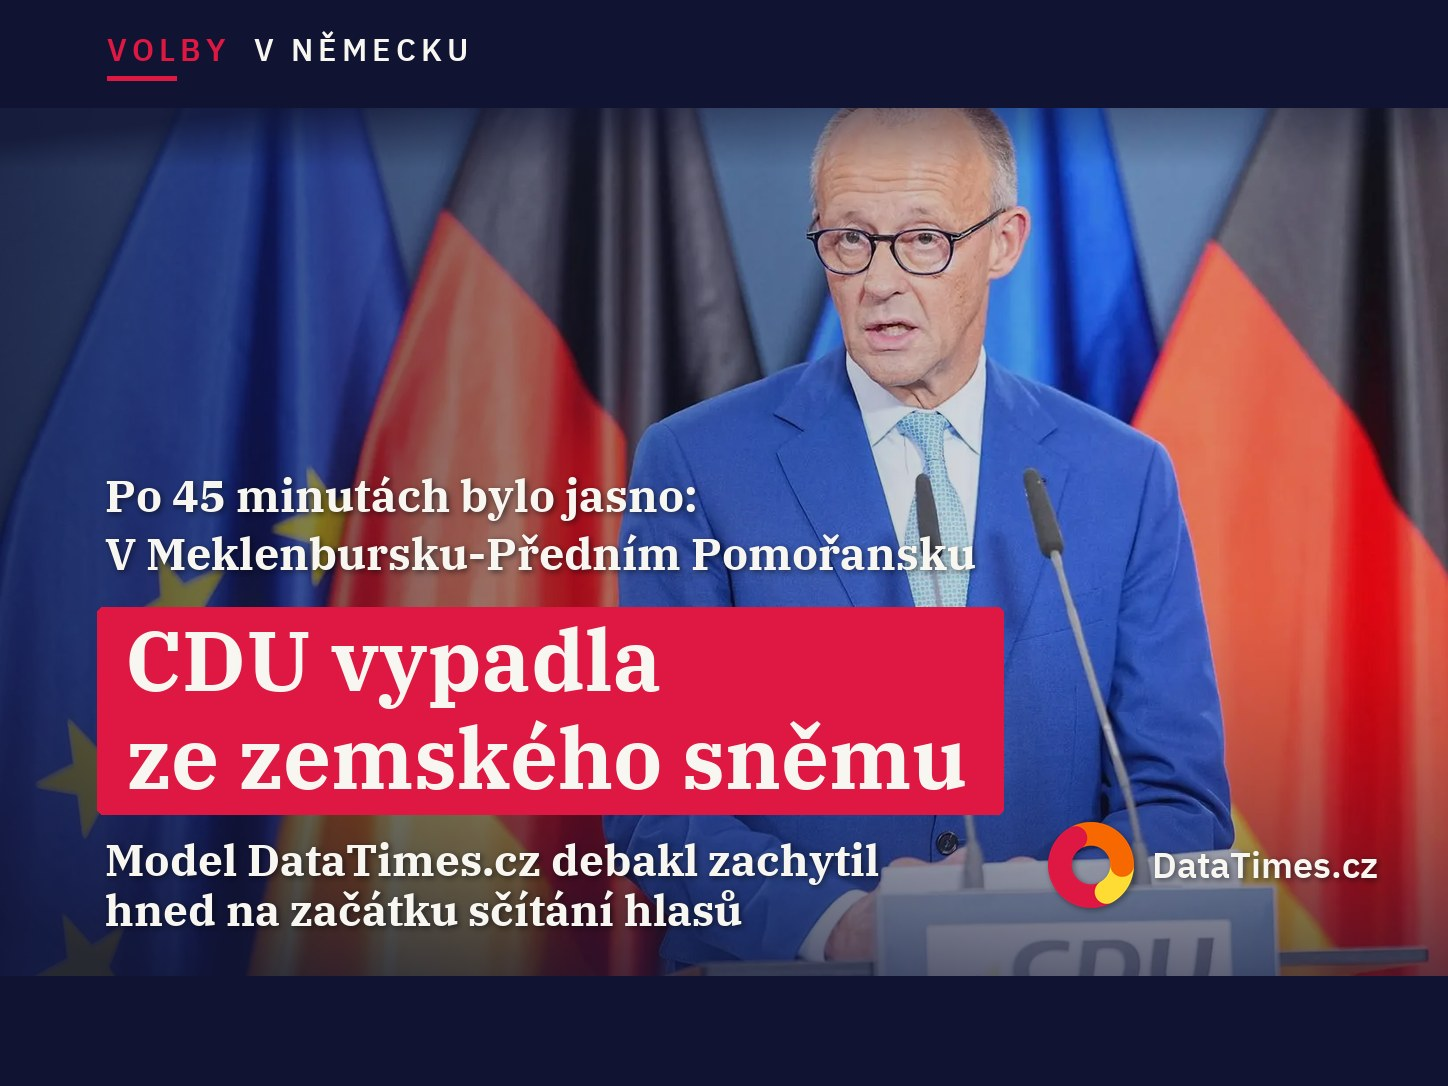
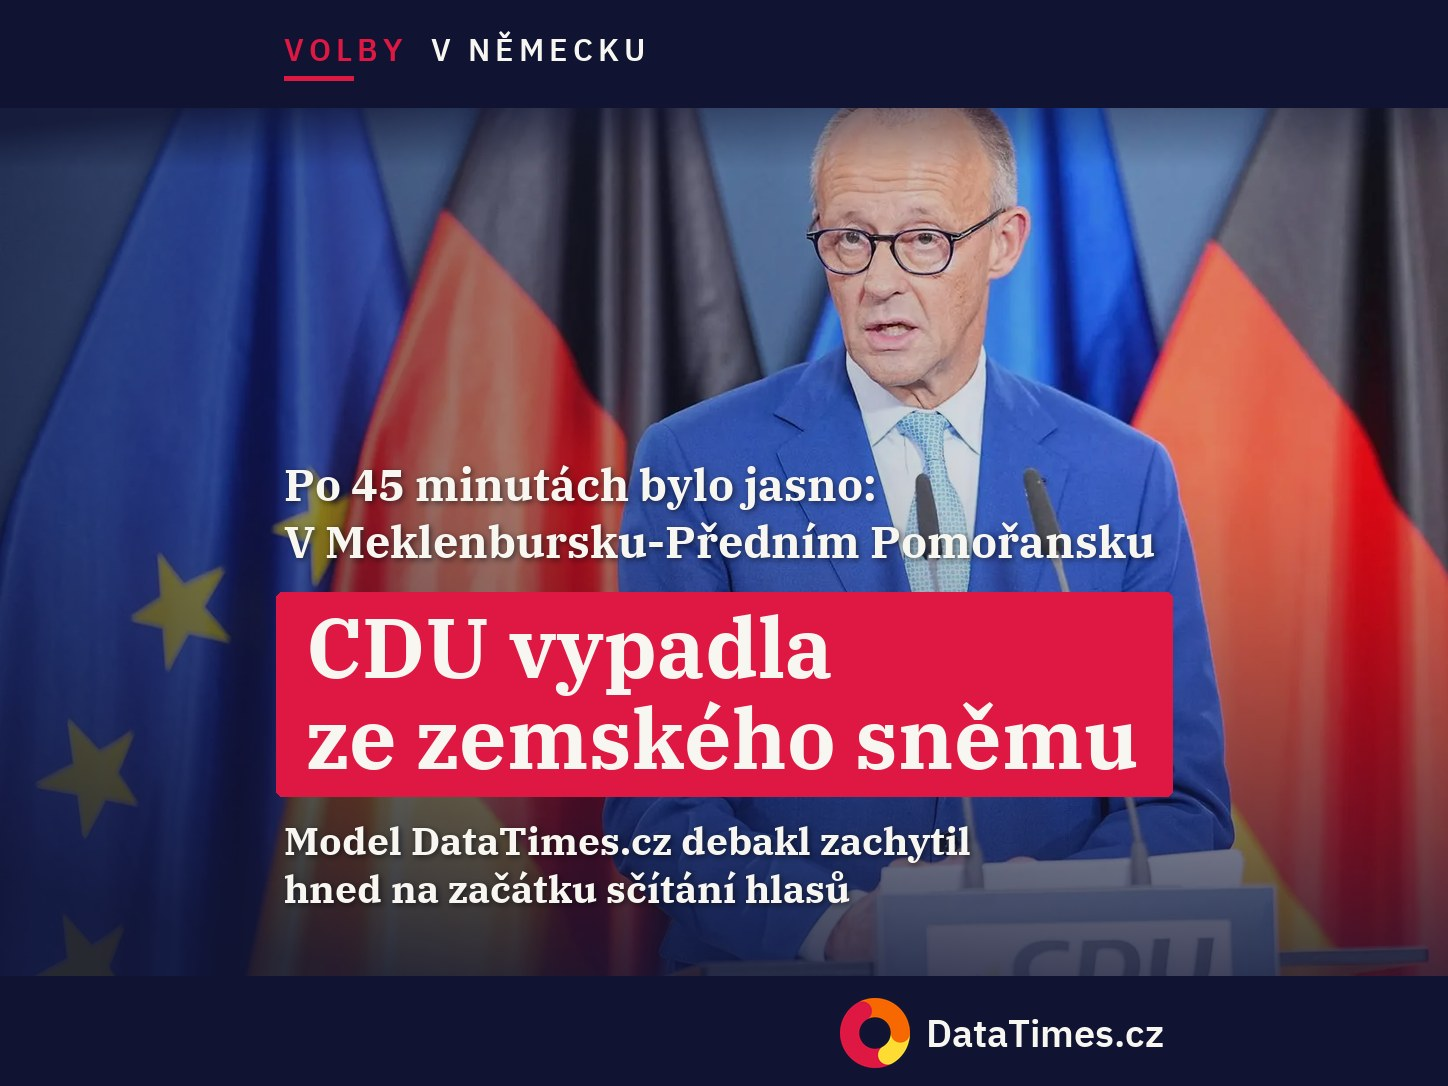
design: CDU cover text in thumbnail safe zone; Kontext band without title, 3+3 + Více; rubrics fix
- CDU Meklenbursko cover: text block + DataTimes.cz badge moved into the
  centre band that stays visible in the homepage side tiles
- CDU Meklenbursko and Russian propaganda articles: rubric kontext -> analýza
- Police-files article: drop the volby tag (belongs to Kontext, not Volby)
- Homepage Kontext band: no section title, 2 rows of cards, Více + arrow below

Changed region(s): [[0.0622, 0.4254, 1.0, 0.9116], [0.0622, 0.0304, 0.4351, 0.0912], [0.5594, 0.9116, 0.808, 1.0]]

diff --git a/packages/ui/src/components/ArticlesSection.tsx b/packages/ui/src/components/ArticlesSection.tsx
@@ -25,6 +25,12 @@ interface ArticlesSectionProps {
    * nikdy nepřesune nad karty – místo toho zmizí).
    */
   variant?: ArticlesGridVariant;
+  /**
+   * Homepage pás bez nadpisu rubriky (jako Volby / Výběr): karty lícují
+   * s horním okrajem pásu a místo nadpisu je dole „Více" + šipka → sectionLink.
+   */
+  moreBelow?: boolean;
+  moreLabel?: string;
 }
 
 export function ArticlesSection({
@@ -36,10 +42,47 @@ export function ArticlesSection({
   locale,
   adaptiveRows,
   variant,
+  moreBelow = false,
+  moreLabel = 'Více',
 }: ArticlesSectionProps) {
   const theme = useMantineTheme();
   const [isTitleHovered, setIsTitleHovered] = useState(false);
   const shouldShowArrow = sectionTitle.length <= 14;
+
+  if (moreBelow) {
+    const light = theme.colors.background[0];
+    // Stejný „Více" jako u FeaturedHero (Volby, Výběr): velký sans nadpis +
+    // vlnovková šipka u levého okraje pásu, odkaz na výpis rubriky.
+    return (
+      <Paper py={16} bg={themeColor} radius={0}>
+        <ArticlesGrid articles={articles} articleBasePath={articleBasePath} locale={locale} adaptiveRows={adaptiveRows} variant={variant} />
+        <Box px="md" mt="md" style={{ display: 'flex', justifyContent: 'flex-start' }}>
+          <a
+            href={sectionLink}
+            onMouseEnter={() => setIsTitleHovered(true)}
+            onMouseLeave={() => setIsTitleHovered(false)}
+            style={{ display: 'inline-flex', textDecoration: 'none' }}
+          >
+            <Title
+              order={2}
+              c={light}
+              style={{
+                display: 'flex',
+                alignItems: 'center',
+                justifyContent: 'flex-start',
+                gap: '5px',
+                maxWidth: '100%',
+                textDecoration: isTitleHovered ? 'underline' : 'none',
+              }}
+            >
+              {moreLabel}
+              <Arrow size={80} color={light} />
+            </Title>
+          </a>
+        </Box>
+      </Paper>
+    );
+  }
 
   {/* Nadpis rubriky (Volby, Analýzy, Kontext, Výběr…) je nově NAD kartami přes
       celou šířku – dřívější boční 200px pás zmizel, takže trojice karet pod ním

diff --git a/apps/web/app/page.tsx b/apps/web/app/page.tsx
@@ -70,11 +70,14 @@ export default async function HomePage() {
         themeColor="#5e66d5"
         moreLink="/vyber" />
 
+      {/* Kontext: oranžový pás bez nadpisu (jako Volby / Výběr), 3+3 karty ve
+          dvou řadách a dole „Více" → /kontext. */}
       <ArticlesSection
         sectionTitle="Kontext"
         sectionLink="/kontext"
         articles={articles_contexts}
-        themeColor="brandOrange.4" variant="standard" />
+        themeColor="brandOrange.4" variant="standard"
+        adaptiveRows={2} moreBelow />
 
       <ArticlesSection
         sectionTitle="Podcasty"

diff --git a/packages/ui/src/components/ArticlesGrid.tsx b/packages/ui/src/components/ArticlesGrid.tsx
@@ -37,7 +37,7 @@ export function ArticlesGrid({ articles, articleBasePath, locale, adaptiveRows, 
         articles={articles}
         articleBasePath={articleBasePath}
         locale={locale}
-        rows={variant === 'featured' ? 2 : 1}
+        rows={adaptiveRows ?? (variant === 'featured' ? 2 : 1)}
         variant={variant}
       />
     );

diff --git a/apps/web/app/clanek/_articles/analyza-2026-09-28-ruska-propaganda-v-eu/index.md b/apps/web/app/clanek/_articles/analyza-2026-09-28-ruska-propaganda-v-eu/index.md
@@ -5,7 +5,7 @@ author: "Kateřina Mahdalová & Michal Škop"
 excerpt: "Hlavní vinu za válku na Ukrajině dává Rusku 85 procent Poláků, 71 procent Čechů a 40 procent Slováků. Třetina Slováků i Bulharů ukazuje na Západ. Kde je podle Media Literacy Indexu společnost vůči dezinformacím nejméně odolná, tam mají lidé nejlepší mínění o Rusku. Z Evropské unie a NATO přitom chce odejít menšina Slováků – a to je prostor, o který se dá bojovat."
 coverImage: "images/cover-homepage.webp"
 ogImage: "images/cover-og.jpg"
-filter: ["kontext"]
+filter: ["analýza"]
 promoted: 0
 tags: ["Rusko", "dezinformace", "propaganda", "Slovensko", "Robert Fico", "Ukrajina", "EU", "NATO", "GLOBSEC", "Eurobarometr", "Bulharsko", "Maďarsko"]
 ---

diff --git a/apps/web/app/clanek/_articles/kontext-2026-09-28-novinarske-remeslo-neni-kopirovat-policejni-spisy/index.md b/apps/web/app/clanek/_articles/kontext-2026-09-28-novinarske-remeslo-neni-kopirovat-policejni-spisy/index.md
@@ -7,7 +7,7 @@ coverImage: "images/cover-novinarske-remeslo-datatimes.jpg"
 coverFit: contain
 coverBg: "brandNavy.9"
 filter: ["kontext"]
-tags: ["úniky z policejních spisů", "média", "novinářská etika", "policejní spisy", "presumpce neviny", "trestní řízení", "komunální volby 2026", "volby", "Praha", "billboardy"]
+tags: ["úniky z policejních spisů", "média", "novinářská etika", "policejní spisy", "presumpce neviny", "trestní řízení", "komunální volby 2026", "Praha", "billboardy"]
 promoted: 0
 ---
 

diff --git a/apps/web/app/clanek/_articles/volby-nemecko-2026-09-20-cdu-meklenbursko/index.md b/apps/web/app/clanek/_articles/volby-nemecko-2026-09-20-cdu-meklenbursko/index.md
@@ -4,7 +4,7 @@ date: "2026-09-20"
 author: "Kateřina Mahdalová & Michal Škop"
 excerpt: "CDU se poprvé v dějinách Spolkové republiky nedostala do zemského parlamentu. Naše datová predikce ukázala už krátce po začátku sčítání, že strana zůstane pod pětiprocentní hranicí."
 coverImage: "images/cover-homepage.jpg"
-filter: ["kontext"]
+filter: ["analýza"]
 tags: ["volby", "Německo", "Meklenbursko-Přední Pomořansko", "CDU", "AfD", "SPD", "volební predikce"]
 promoted: 0
 ---
